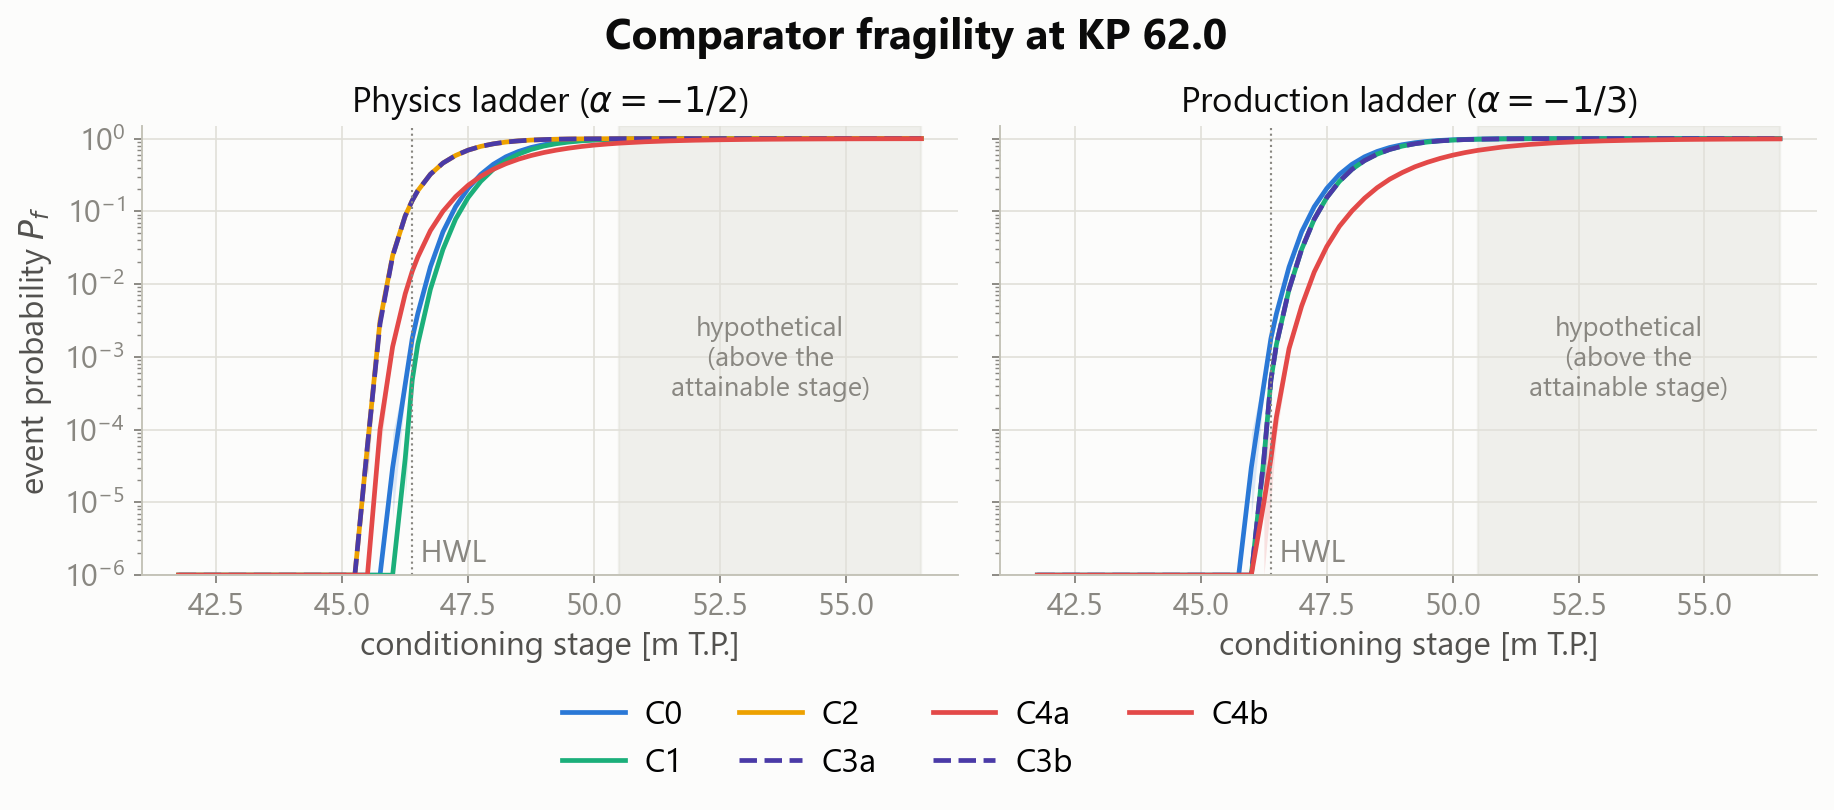
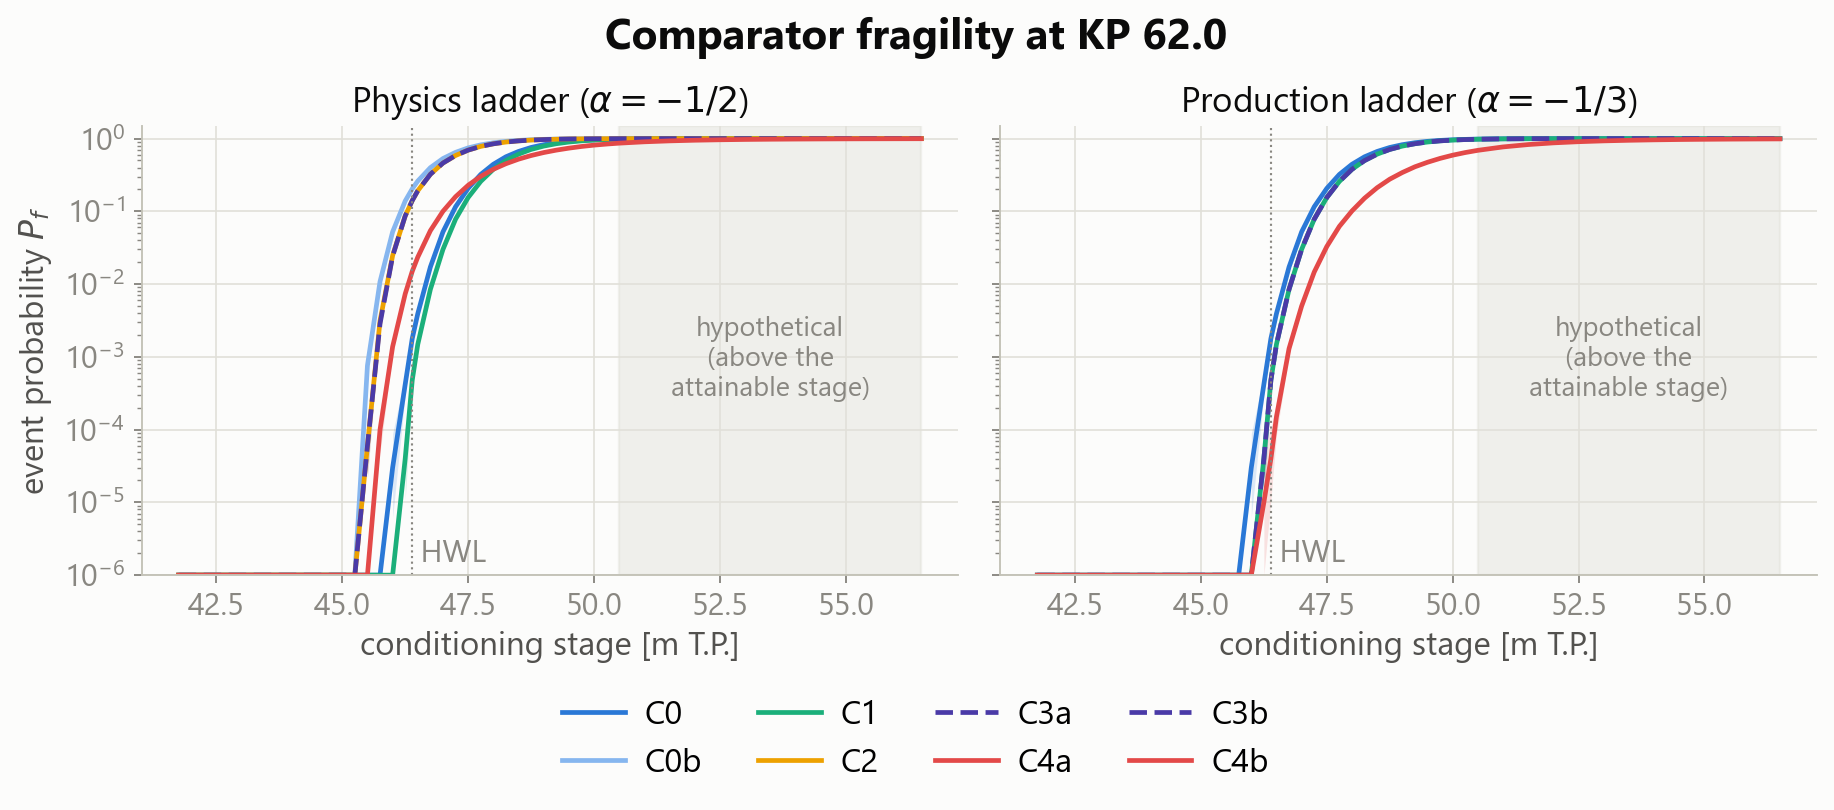
Draw the scale exponent as a measured bracket, not a qualitative one
The plane-strain versus three-dimensional scale exponent was the one condition
on the static-to-transient comparison that no figure quantified. Two figures now
carry it, and both are re-renders: no physics ran and no p_f value moved.

The comparator ladders gain C0b, conventional practice at alpha = -1/2, which
is the static comparator of the symmetric reading. The panel already drew C0 and
C4a, so the asymmetric total was readable off it and the symmetric one was not,
although C0b has been in the ladder and in the analysis JSON all along. Redrawn
through --figures-only: the two analysis JSONs are byte-identical before and
after, and of the ten figures it redraws only the two ladders differ.

The epistemic ranking gains an alpha row, the transient branch at -1/2 against
the production branch at -1/3. Its arms are ladder comparators rather than a
companion sweep, so the span is gated on C4b reproducing the synthesis record's
own transient baseline curve at every shared stage: 38 stages at KP 62.0 and 23
at KP 57.4, zero mismatches, which is what makes the row comparable with the
rest of the ranking rather than merely adjacent to it. It lands fourth at the
KP 62.0 design anchor, a factor of 157 behind the exit datum's 184 and ahead of
seepage length at 15, and it never displaces conductivity.

Three points of care. The row label is kept no wider than the CoV(L) row: this
figure is placed at \textwidth, so a longer label widens the authored figure and
[…]

diff --git a/scripts/thesis_figure_gaps.py b/scripts/thesis_figure_gaps.py
@@ -83,6 +83,20 @@ ZTOE_COMPANION = DECISIONS / "adr0046-ztoe-companion.json"
 #: Source of truth for ADR-0024's ``attainable_max_m``; read, never duplicated.
 STAGE66_KP62 = DECISIONS / "adr0040-stage6-6-kp62_0-analysis.json"
 
+#: The comparator ladders, which are the only measurement of the scale-exponent
+#: bracket. It was run at two of the four sections, so the alpha row of the
+#: ranking carries two section marks rather than four; that is coverage, not a
+#: missing number, and the caption says so.
+ALPHA_LADDERS = {
+    "KP62.0": STAGE66_KP62,
+    "KP57.4": DECISIONS / "adr0040-stage6-6-kp57_4-analysis.json",
+}
+#: The ladder comparators the alpha bracket's two arms are read from: the
+#: production transient branch at alpha = -1/3 and the calibrated alternative at
+#: alpha = -1/2. Both are transient, so the span is on the same axis, and the
+#: same baseline, as every other bracket in the ranking.
+ALPHA_ARMS = ("C4b", "C4a")
+
 SECTIONS = ("KP57.4", "KP58.8", "KP60.0", "KP62.0")
 
 #: The eight production strata, in the order the campaign reports them.
@@ -149,6 +163,10 @@ BRACKET_LABEL = {
     "z_toe": r"$z_\mathrm{toe}$ $\pm$0.3 m",
     "L_measurement": r"$L$ measurement",
     "m_p": r"$m_p$ model factor",
+    # Kept no wider than the CoV(L) row: this figure is placed at \textwidth,
+    # so a longer row label widens the authored figure and shrinks every
+    # printed type size with it.
+    "alpha_exponent": r"$\alpha$ $-1/2$, transient",
     "gamma_bl_sub_prior_mean": r"$\gamma'_\mathrm{bl}$ prior mean",
     "clopper_pearson": "Clopper-Pearson (95%)",
     "mc_cov": "Monte Carlo CoV (target)",
@@ -165,7 +183,11 @@ CANCELLATION_ARM_EXCLUSIONS = {"L_dem_all_stations_median"}
 #: ADR-0028 separated the static limit state from the uplift/heave gate, and
 #: gamma'_bl enters only the gate: its static ratio is exactly 1.000 at every
 #: level. It must never be read as a second common-mode knob beside m_p.
-SINGLE_BRANCH_BRACKETS = {"gamma_bl_sub_prior_mean"}
+#: ``alpha_exponent`` joins it for a different reason: the span drawn here is the
+#: transient branch moved from -1/3 to -1/2 against a static comparator held at
+#: -1/3, which is the one-branch reading. Applied to both branches the exponent
+#: is a different quantity, and neither reading is a cancellation claim.
+SINGLE_BRANCH_BRACKETS = {"gamma_bl_sub_prior_mean", "alpha_exponent"}
 
 #: The only bracket that cancels, and why it is the only one. ADR-0045 section 2
 #: applies m_p to the single-source H_c in BOTH its uses (static comparator and
@@ -788,7 +810,20 @@ def _span_cell(section: dict[str, Any], bracket: str, anchor: str) -> dict[str, 
     """
     anchor_record = section["anchors"][anchor]
     defined = anchor_record["n_failures_trans_baseline"] > 0
-    raw = section["brackets"][bracket]["span"].get(anchor, {}).get("span_trans")
+    record = section["brackets"].get(bracket)
+    if record is None:
+        # Not measured at this section. A third state beside the two below: the
+        # knob has no arms here at all, so the row simply carries no mark for
+        # this section rather than an unbounded or an undefined one.
+        return {
+            "defined": False,
+            "unbounded": False,
+            "span": None,
+            "stage_m_msl": anchor_record["stage_m_msl"],
+            "p_f_trans_baseline": anchor_record["P_f_trans_baseline"],
+            "n_failures_trans_baseline": anchor_record["n_failures_trans_baseline"],
+        }
+    raw = record["span"].get(anchor, {}).get("span_trans")
     return {
         "defined": defined,
         "unbounded": defined and raw is None,
@@ -868,6 +903,82 @@ def _cancellation_by_bracket(section: dict[str, Any]) -> dict[str, dict[str, Any
     return worst
 
 
+def _alpha_bracket(section: dict[str, Any], ladder_path: Path) -> dict[str, Any]:
+    """The scale-exponent bracket at one section, on the ranking's own axis.
+
+    Every other bracket in this figure is a multiplicative span of conditional
+    *transient* failure probability about the production baseline. The exponent
+    is measured by the comparator ladder rather than by a companion sweep, so
+    its two arms are read from the ladder: ``C4b`` is the production transient
+    branch at alpha = -1/3 and ``C4a`` the calibrated alternative at -1/2.
+
+    **The gate that makes the two records comparable** is that ``C4b`` must
+    reproduce the synthesis record's own transient baseline curve at every stage
+    the two grids share. They are independent artifacts of the same production
+    sweep, so an exact match is the check that the span is about the same
+    baseline as the rest of the ranking; a mismatch would mean the ladder and
+    the synthesis were run against different production sweeps and the row would
+    not belong on this axis at all.
+    """
+    ladder = json.loads(ladder_path.read_text(encoding="utf-8"))
+    levels = ladder["components"]["levels"]
+    p_f = {c: dict(zip(levels, v)) for c, v in ladder["p_f"].items()}
+
+    shared = 0
+    for stage, base in zip(section["grid_m_msl"], section["P_f_trans_baseline_curve"]):
+        arm = p_f[ALPHA_ARMS[0]].get(stage)
+        if arm is None:
+            continue
+        shared += 1
+        if abs(arm - float(base)) > 1e-12:
+            raise SystemExit(
+                f"{section['section']}: the comparator ladder's {ALPHA_ARMS[0]} "
+                f"is {arm} at {stage} m where the epistemic synthesis records a "
+                f"transient baseline of {base}. The two records are not on the "
+                "same production sweep, so the scale-exponent span is not "
+                "comparable with the other brackets and must not be drawn."
+            )
+    if not shared:
+        raise SystemExit(
+            f"{section['section']}: ladder and synthesis grids do not meet"
+        )
+
+    span: dict[str, Any] = {}
+    for anchor, record in section["anchors"].items():
+        stage = record["stage_m_msl"]
+        arms = [p_f[c].get(stage) for c in ALPHA_ARMS]
+        if any(a is None for a in arms) or record["n_failures_trans_baseline"] == 0:
+            continue
+        lo, hi = min(arms), max(arms)
+        span[anchor] = {
+            "span_trans": None if lo <= 0.0 else hi / lo,
+            "ratio_min": 1.0,
+            "ratio_max": None if lo <= 0.0 else hi / lo,
+            "P_f_trans_baseline": record["P_f_trans_baseline"],
+        }
+    return {"arms": list(ALPHA_ARMS), "span": span, "n_levels_gated": shared}
+
+
+def _with_alpha_bracket(synthesis: dict[str, Any]) -> dict[str, Any]:
+    """A copy of the synthesis carrying the scale-exponent bracket.
+
+    Copied rather than mutated in place because the same record is handed to
+    ``figure_epistemic_knobs``, which ranks nothing and must not acquire a row.
+    """
+    out = dict(synthesis)
+    out["sections"] = []
+    for section in synthesis["sections"]:
+        ladder = ALPHA_LADDERS.get(section["section"])
+        if ladder is None or not ladder.exists():
+            out["sections"].append(section)
+            continue
+        patched = dict(section)
+        patched["brackets"] = dict(section["brackets"])
+        patched["brackets"]["alpha_exponent"] = _alpha_bracket(section, ladder)
+        out["sections"].append(patched)
+    return out
+
+
 def _bracket_order(sections: list[dict[str, Any]]) -> list[str]:
     """Rank the epistemic brackets by how far they move transient P_f.
 
@@ -875,8 +986,16 @@ def _bracket_order(sections: list[dict[str, Any]]) -> list[str]:
     cells, largest finite span) over the two anchors the thesis quotes, so the
     ordering the figure asserts is the one the evidence supports.
     """
+    # The union, not the first section's keys: a bracket measured at only some
+    # sections (the scale exponent) still earns a row.
+    every: list[str] = []
+    for section in sections:
+        for bracket in section["brackets"]:
+            if bracket not in every:
+                every.append(bracket)
+
     keys: dict[str, tuple[int, float]] = {}
-    for bracket in sections[0]["brackets"]:
+    for bracket in every:
         if bracket in STATISTICAL_BRACKETS:
             continue
         unbounded, finite = 0, 0.0
@@ -1007,6 +1126,7 @@ def figure_epistemic_ranking(
     them stays in this figure's own table source, in the ``cancellation_arm``
     and ``max_resolved_departure_factor`` columns built below.
     """
+    synthesis = _with_alpha_bracket(synthesis)
     sections = {s["section"]: s for s in synthesis["sections"]}
     ordered = _bracket_order(synthesis["sections"])
     rows_order = ordered + list(STATISTICAL_BRACKETS)
@@ -1475,9 +1595,13 @@ def figure_epistemic_ranking(
                         "p_f_trans_baseline": cell["p_f_trans_baseline"],
                         "n_failures_trans_baseline": cell["n_failures_trans_baseline"],
                         "span_trans": (
-                            "not_defined"
-                            if not cell["defined"]
-                            else _fmt_span(cell["span"])
+                            "not_measured"
+                            if bracket not in sections[name]["brackets"]
+                            else (
+                                "not_defined"
+                                if not cell["defined"]
+                                else _fmt_span(cell["span"])
+                            )
                         ),
                         "moves_both_branches": bracket not in SINGLE_BRANCH_BRACKETS,
                         "cancellation_arm": record.get("arm", ""),

diff --git a/tests/test_thesis_figure_gaps.py b/tests/test_thesis_figure_gaps.py
@@ -629,6 +629,14 @@ def test_m_p_is_the_only_bracket_that_cancels_in_the_ratio() -> None:
     from that comparison on purpose: ADR-0028 keeps it out of the static branch
     entirely, so its rho near 1 is inertness, not cancellation, and treating it
     as a second canceller would be the same category error.
+
+    ``alpha_exponent`` is excluded for that same reason rather than a new one.
+    The span the ranking draws for it is the transient branch moved from -1/3
+    to -1/2 against a static comparator held at -1/3, so the static branch is
+    exactly invariant under it and a rho near 1 would again be inertness. It
+    carries no cancellation record at all, its arms being ladder comparators
+    rather than companion sweeps, so the loop below never reaches it; the pin
+    is here so that adding it to the set stays a deliberate act.
     """
     from thesis_figure_gaps import (
         COMMON_MODE_BRACKET,
@@ -637,7 +645,7 @@ def test_m_p_is_the_only_bracket_that_cancels_in_the_ratio() -> None:
     )
 
     assert COMMON_MODE_BRACKET == "m_p"
-    assert SINGLE_BRANCH_BRACKETS == {"gamma_bl_sub_prior_mean"}
+    assert SINGLE_BRANCH_BRACKETS == {"gamma_bl_sub_prior_mean", "alpha_exponent"}
 
     for section in _read(_require(SYNTHESIS))["sections"]:
         worst = _cancellation_by_bracket(section)

diff --git a/scripts/stage6_6_gap_decomposition.py b/scripts/stage6_6_gap_decomposition.py
@@ -489,7 +489,7 @@ def figure_ladder(key: str, result: GapDecompositionResult, fig_dir: Path) -> Pa
     fig, axes = plt.subplots(1, 2, figsize=(11, 5.4), sharey=True)
     fig.patch.set_facecolor(SURFACE)
     panels = (
-        (r"Physics ladder ($\alpha=-1/2$)", ("C0", "C1", "C2", "C3a", "C4a")),
+        (r"Physics ladder ($\alpha=-1/2$)", ("C0", "C0b", "C1", "C2", "C3a", "C4a")),
         (r"Production ladder ($\alpha=-1/3$)", ("C0", "C1", "C3b", "C4b")),
     )
     for ax, (title, ids) in zip(axes, panels):
